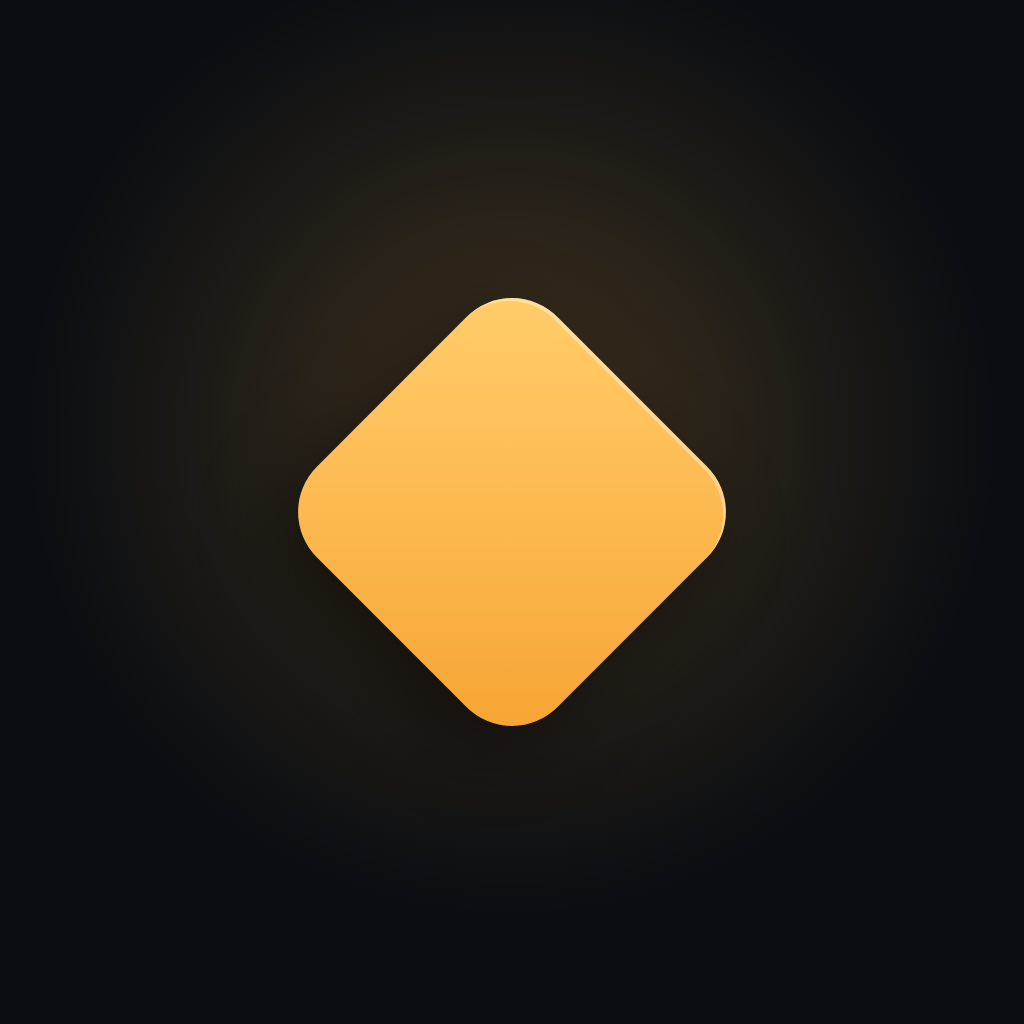
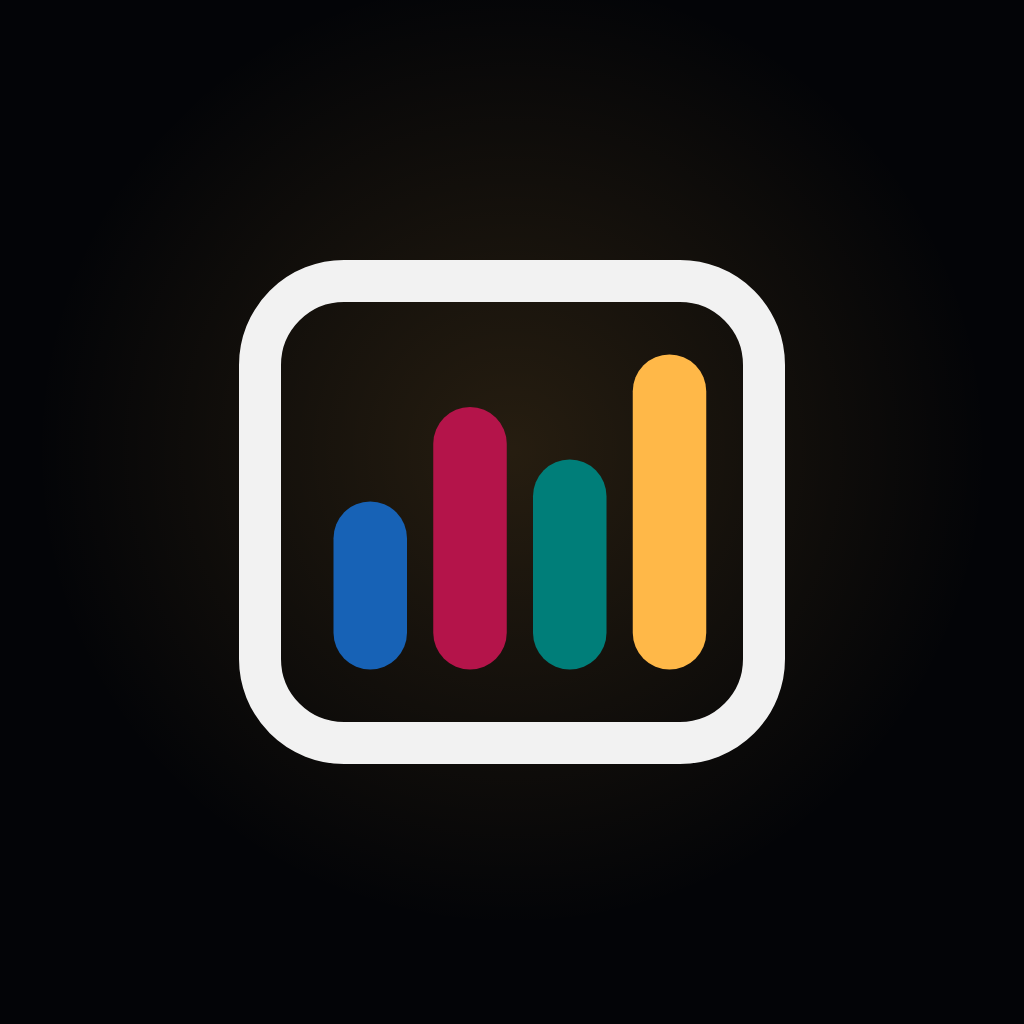
feat: rename the app to Color Up with the chip-rack mark
Users now see Color Up everywhere: the web header and sign-in, page
titles, the app's name, icon, favicon and touch icon, and every line of
copy that named the app. The code keeps its working name, Stacks.

Claude-Session: https://claude.ai/code/session_01B43xRoEkh9PeDm4i5P13Sz

Changed region(s): [[0.2188, 0.25, 0.7812, 0.75]]

diff --git a/apps/mobile/src/App.tsx b/apps/mobile/src/App.tsx
@@ -19,6 +19,7 @@ import { SafeAreaProvider } from "react-native-safe-area-context";
 import { useCSSVariable, useUniwind } from "uniwind";
 
 import { Button } from "./components/ui/Button";
+import { BrandMark } from "./components/BrandMark";
 import { SignInButton } from "./features/SignInButton";
 import { clerkPublishableKey } from "./lib/config";
 import { StacksProvider } from "./lib/stacks";
@@ -48,7 +49,7 @@ const RootStack = createNativeStackNavigator({
       options: { title: "" },
       linking: { path: "", screens: tripTabPaths },
     },
-    Groups: { screen: GroupsScreen, options: { title: "Stacks" }, linking: { path: "groups" } },
+    Groups: { screen: GroupsScreen, options: { title: "Color Up" }, linking: { path: "groups" } },
     Group: { screen: GroupScreen, options: { title: "" }, linking: { path: "groups/:groupId" } },
     NewSession: {
       screen: NewSessionScreen,
@@ -169,7 +170,7 @@ function Starting() {
         Can't sign in yet
       </Text>
       <Text className="text-lg text-muted">
-        Stacks couldn't reach its sign-in service. Check your connection, then try again.
+        Color Up couldn't reach its sign-in service. Check your connection, then try again.
       </Text>
       <Button label="Try again" variant="primary" size="lg" onPress={() => void reloadAppAsync()} />
     </View>
@@ -180,8 +181,8 @@ function SignedOut() {
   return (
     <View className="flex-1 justify-center gap-6 bg-canvas px-6">
       <View className="flex-row items-center gap-2">
-        <View className="size-3 rotate-45 rounded-[3px] bg-accent" />
-        <Text className="font-display text-2xl tracking-wide text-ink uppercase">Stacks</Text>
+        <BrandMark size={28} />
+        <Text className="font-display text-2xl tracking-wide text-ink uppercase">Color Up</Text>
       </View>
       <View className="gap-3">
         <Text
@@ -192,7 +193,7 @@ function SignedOut() {
         </Text>
       </View>
       <Text className="text-lg text-muted">
-        Log buy-ins and cash-outs as you play. Stacks works out everyone's results and who owes
+        Log buy-ins and cash-outs as you play. Color Up works out everyone's results and who owes
         whom. You pay each other however you like.
       </Text>
       <View className="gap-3">

diff --git a/apps/mobile/src/screens/People.tsx b/apps/mobile/src/screens/People.tsx
@@ -121,7 +121,7 @@ function PeopleView({ detail }: { detail: GroupDetail }) {
         </SectionHeading>
         {guests.length === 0 ? (
           <Text className="text-sm text-muted">
-            Add friends who aren't on Stacks yet. Send them their claim link when they sign up and
+            Add friends who aren't on Color Up yet. Send them their claim link when they sign up and
             their history becomes theirs.
           </Text>
         ) : (
@@ -148,7 +148,7 @@ function PeopleView({ detail }: { detail: GroupDetail }) {
                         onPress={() =>
                           void share(
                             `${webUrl}/claim/${player.claimCode}`,
-                            `Claim your Stacks history in ${detail.group.name}:`,
+                            `Claim your Color Up history in ${detail.group.name}:`,
                             player.id,
                           )
                         }
@@ -253,8 +253,8 @@ function InviteSection({ detail }: { detail: GroupDetail }) {
                         size="sm"
                         className="flex-1"
                         onPress={() =>
-                          void shareLink(url, `Join ${detail.group.name} on Stacks:`).then((how) =>
-                            how === "copied" ? setCopied(invite.id) : undefined,
+                          void shareLink(url, `Join ${detail.group.name} on Color Up:`).then(
+                            (how) => (how === "copied" ? setCopied(invite.id) : undefined),
                           )
                         }
                       />

diff --git a/apps/web/src/routes/__root.tsx b/apps/web/src/routes/__root.tsx
@@ -7,6 +7,7 @@ import type { ReactNode } from "react";
 import { Button } from "~/components/ui/Button";
 import { FormError } from "~/components/ui/Field";
 import { Menu, MenuChoice } from "~/components/ui/Menu";
+import { BrandMark } from "~/components/BrandMark";
 import { LiveBar } from "~/features/LiveBar";
 import { StacksProvider } from "~/lib/stacks";
 import { setTheme, useTheme } from "~/lib/theme";
@@ -61,8 +62,8 @@ function Wordmark() {
       to="/"
       className="flex min-h-11 items-center gap-2 font-display text-2xl tracking-wide uppercase"
     >
-      <span aria-hidden className="size-3 rotate-45 rounded-[3px] bg-accent" />
-      Stacks
+      <BrandMark className="size-7" />
+      Color Up
     </Link>
   );
 }
@@ -101,7 +102,7 @@ function SignedOut() {
         <p className="max-w-[46ch] text-lg text-muted">
           {invited
             ? "Sign in or create an account to see who invited you and join their ledger."
-            : "Log buy-ins and cash-outs as you play. Stacks works out everyone's results and who owes whom. You pay each other however you like."}
+            : "Log buy-ins and cash-outs as you play. Color Up works out everyone's results and who owes whom. You pay each other however you like."}
         </p>
         <div className="flex flex-wrap gap-3">
           <SignUpButton mode="modal">

diff --git a/apps/mobile/app.config.ts b/apps/mobile/app.config.ts
@@ -3,13 +3,13 @@ import type { ExpoConfig } from "expo/config";
 type AppVariant = "development" | "preview" | "production";
 
 const VARIANTS: Record<AppVariant, { name: string; scheme: string; id: string }> = {
-  development: { name: "Stacks Dev", scheme: "stacks-dev", id: "com.stephencombs.colorup.dev" },
+  development: { name: "Color Up Dev", scheme: "stacks-dev", id: "com.stephencombs.colorup.dev" },
   preview: {
-    name: "Stacks Preview",
+    name: "Color Up Preview",
     scheme: "stacks-preview",
     id: "com.stephencombs.colorup.preview",
   },
-  production: { name: "Stacks", scheme: "stacks", id: "com.stephencombs.colorup" },
+  production: { name: "Color Up", scheme: "stacks", id: "com.stephencombs.colorup" },
 };
 
 const variant = (process.env.APP_VARIANT ?? "development") as AppVariant;
@@ -42,7 +42,7 @@ export default (): ExpoConfig => ({
       "expo-location",
       {
         locationWhenInUsePermission:
-          "Stacks uses your location to list the casinos near you first.",
+          "Color Up uses your location to list the casinos near you first.",
       },
     ],
   ],

diff --git a/apps/mobile/src/components/BrandMark.tsx b/apps/mobile/src/components/BrandMark.tsx
@@ -1,0 +1,22 @@
+import Svg, { Rect } from "react-native-svg";
+import { useCSSVariable } from "uniwind";
+
+/** The Color Up mark: a chip rack from above, its columns the night's stacks, the tallest in gold. */
+export function BrandMark({ size }: { size: number }) {
+  const [ink, blue, red, teal, gold] = useCSSVariable([
+    "--color-ink",
+    "--color-chip-2",
+    "--color-chip-1",
+    "--color-chip-3",
+    "--color-accent",
+  ]).map(String);
+  return (
+    <Svg width={size} height={size} viewBox="0 0 64 64" accessibilityElementsHidden>
+      <Rect x={8} y={10} width={48} height={44} rx={8} fill="none" stroke={ink} strokeWidth={5} />
+      <Rect x={15} y={31} width={7} height={16} rx={3.5} fill={blue} />
+      <Rect x={24.5} y={22} width={7} height={25} rx={3.5} fill={red} />
+      <Rect x={34} y={27} width={7} height={20} rx={3.5} fill={teal} />
+      <Rect x={43.5} y={17} width={7} height={30} rx={3.5} fill={gold} />
+    </Svg>
+  );
+}

diff --git a/apps/web/e2e/full-loop.spec.ts b/apps/web/e2e/full-loop.spec.ts
@@ -54,11 +54,11 @@ test.describe.serial("a group's first night out", () => {
     await expect(alex.getByLabel("Your name in this group")).toHaveValue("Alex");
     await alex.getByRole("button", { name: "Create group" }).click();
     await expect(alex.getByRole("heading", { name: "Vegas crew" })).toBeVisible();
-    await expect(alex).toHaveTitle("Trips · Vegas crew · Stacks");
+    await expect(alex).toHaveTitle("Trips · Vegas crew · Color Up");
 
     // Alex invites Bea and adds Gus as a guest.
     await alex.getByRole("link", { name: "People" }).click();
-    await expect(alex).toHaveTitle("People · Vegas crew · Stacks");
+    await expect(alex).toHaveTitle("People · Vegas crew · Color Up");
     await alex.getByRole("button", { name: "New invite link" }).click();
     const inviteLink = (await alex.getByText(/\/join\//).textContent())!;
     await alex.getByRole("button", { name: "Add a guest" }).click();

diff --git a/apps/web/src/components/BrandMark.tsx b/apps/web/src/components/BrandMark.tsx
@@ -1,0 +1,22 @@
+import { cn } from "./ui/cn";
+
+/** The Color Up mark: a chip rack from above, its columns the night's stacks, the tallest in gold. */
+export function BrandMark({ className }: { className?: string }) {
+  return (
+    <svg viewBox="0 0 64 64" aria-hidden className={cn("shrink-0", className)}>
+      <rect
+        x="8"
+        y="10"
+        width="48"
+        height="44"
+        rx="8"
+        strokeWidth="5"
+        className="fill-none stroke-ink"
+      />
+      <rect x="15" y="31" width="7" height="16" rx="3.5" className="fill-chip-2" />
+      <rect x="24.5" y="22" width="7" height="25" rx="3.5" className="fill-chip-1" />
+      <rect x="34" y="27" width="7" height="20" rx="3.5" className="fill-chip-3" />
+      <rect x="43.5" y="17" width="7" height="30" rx="3.5" className="fill-accent" />
+    </svg>
+  );
+}

diff --git a/apps/web/index.html b/apps/web/index.html
@@ -9,9 +9,11 @@
     <meta name="theme-color" content="#090b0f" />
     <meta
       name="description"
-      content="Log buy-ins and cash-outs as you play. Stacks works out everyone's results and who owes whom. You pay each other however you like."
+      content="Log buy-ins and cash-outs as you play. Color Up works out everyone's results and who owes whom. You pay each other however you like."
     />
-    <title>Stacks</title>
+    <title>Color Up</title>
+    <link rel="icon" href="/favicon.svg" type="image/svg+xml" />
+    <link rel="apple-touch-icon" href="/apple-touch-icon.png" />
     <link
       rel="preload"
       href="/node_modules/@fontsource/barlow-condensed/files/barlow-condensed-latin-700-normal.woff2"

diff --git a/apps/mobile/src/screens/Session.tsx b/apps/mobile/src/screens/Session.tsx
@@ -816,8 +816,8 @@ function CloseSheet({
       ) : null}
       {unsent > 0 ? (
         <FormError>
-          {unsent === 1 ? "1 entry hasn't" : `${unsent} entries haven't`} reached Stacks yet. Close
-          once they have, so nothing is left out.
+          {unsent === 1 ? "1 entry hasn't" : `${unsent} entries haven't`} reached Color Up yet.
+          Close once they have, so nothing is left out.
         </FormError>
       ) : null}
       {close.error ? <FormError>{close.error}</FormError> : null}

diff --git a/apps/mobile/src/features/PaymentHandles.tsx b/apps/mobile/src/features/PaymentHandles.tsx
@@ -122,7 +122,7 @@ function PaymentHandlesSheet({
       title={self ? "Payment apps" : `${player.displayName}'s payment apps`}
       description={
         self
-          ? `People in ${detail.group.name} get payment links on settle up. Stacks never moves money.`
+          ? `People in ${detail.group.name} get payment links on settle up. Color Up never moves money.`
           : `People in ${detail.group.name} get payment links when paying ${player.displayName}.`
       }
       footer={

diff --git a/apps/web/src/features/PaymentHandles.tsx b/apps/web/src/features/PaymentHandles.tsx
@@ -118,7 +118,7 @@ function PaymentHandlesDialog({
       title={self ? "Payment apps" : `${player.displayName}'s payment apps`}
       description={
         self
-          ? `People in ${detail.group.name} get payment links on settle up. Stacks never moves money.`
+          ? `People in ${detail.group.name} get payment links on settle up. Color Up never moves money.`
           : `People in ${detail.group.name} get payment links when paying ${player.displayName}.`
       }
     >

diff --git a/apps/web/src/routes/trips/$tripId/settle.tsx b/apps/web/src/routes/trips/$tripId/settle.tsx
@@ -136,7 +136,7 @@ function SettleUpView({ detail, trip }: { detail: GroupDetail; trip: TripDetail 
             ))}
           </List>
           <Note>
-            These clear every balance. Pay however you like; Stacks only keeps the record.
+            These clear every balance. Pay however you like; Color Up only keeps the record.
           </Note>
           {recordSettlement.error ? <FormError>{recordSettlement.error}</FormError> : null}
         </Section>
